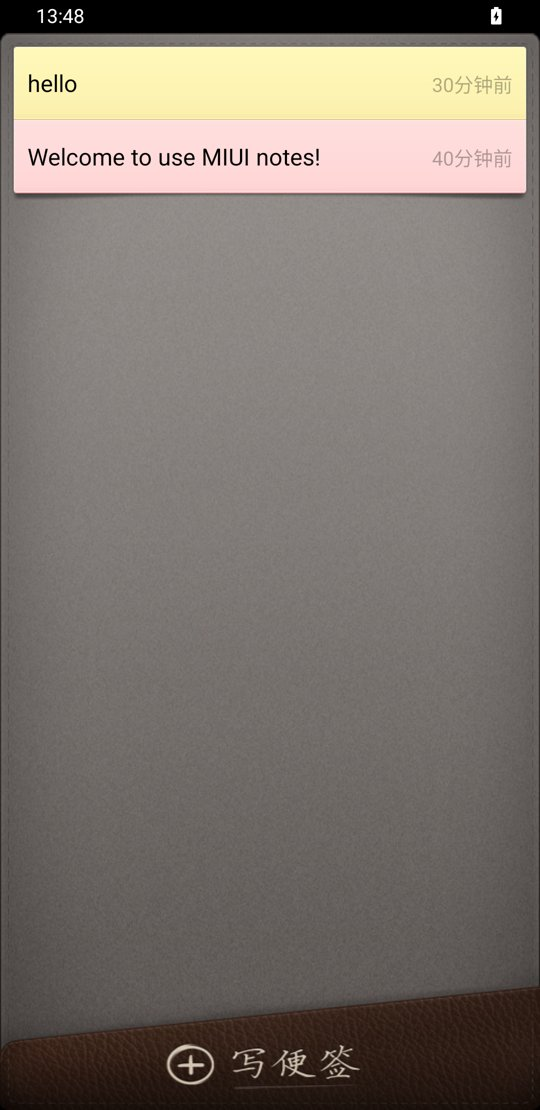
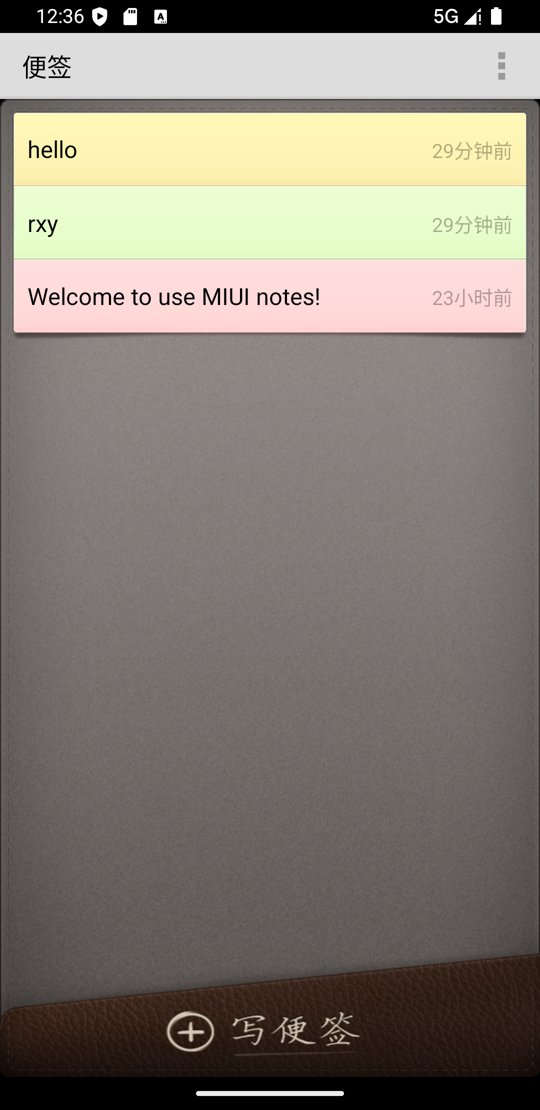
feat: restore delete, batch delete and move actions
Show a visible ActionBar on the notes list, add a Batch select menu entry, refresh checkbox state when entering multi-select mode, and use the current folder instead of a long-pressed item for move availability. Update README and CHANGELOG, and check the restored action item.

diff --git a/app/src/main/java/net/micode/notes/ui/NotesListActivity.java b/app/src/main/java/net/micode/notes/ui/NotesListActivity.java
@@ -16,6 +16,7 @@
 
 package net.micode.notes.ui;
 
+import android.app.ActionBar;
 import android.app.Activity;
 import android.app.AlertDialog;
 import android.app.Dialog;
@@ -148,6 +149,15 @@ public class NotesListActivity extends Activity implements OnClickListener, OnIt
     protected void onCreate(Bundle savedInstanceState) {
         super.onCreate(savedInstanceState);
         setContentView(R.layout.note_list);
+
+        // 显示 ActionBar，让现代设备可以通过右上角溢出菜单访问列表操作。
+        ActionBar actionBar = getActionBar();
+        if (actionBar != null) {
+            actionBar.show();
+            actionBar.setDisplayShowTitleEnabled(true);
+            actionBar.setDisplayShowHomeEnabled(false);
+        }
+
         initResources();
 
         setAppInfoFromRawRes();
@@ -264,7 +274,7 @@ public class NotesListActivity extends Activity implements OnClickListener, OnIt
             getMenuInflater().inflate(R.menu.note_list_options, menu);
             menu.findItem(R.id.delete).setOnMenuItemClickListener(this);
             mMoveMenu = menu.findItem(R.id.move);
-            if (mFocusNoteDataItem.getParentId() == Notes.ID_CALL_RECORD_FOLDER
+            if (mCurrentFolderId == Notes.ID_CALL_RECORD_FOLDER
                     || DataUtils.getUserFolderCount(mContentResolver) == 0) {
                 mMoveMenu.setVisible(false);
             } else {
@@ -535,6 +545,21 @@ public class NotesListActivity extends Activity implements OnClickListener, OnIt
         intent.setAction(Intent.ACTION_INSERT_OR_EDIT);
         intent.putExtra(Notes.INTENT_EXTRA_FOLDER_ID, mCurrentFolderId);
         this.startActivityForResult(intent, REQUEST_CODE_NEW_NODE);
+    }
+
+    /**
+     * 进入批量操作模式，显示删除和移动入口。
+     */
+    private void startBatchEdit() {
+        if (mNotesListAdapter.getCount() == 0) {
+            Toast.makeText(this, R.string.menu_select_none, Toast.LENGTH_SHORT).show();
+            return;
+        }
+        if (!mNotesListAdapter.isInChoiceMode()) {
+            if (mNotesListView.startActionMode(mModeCallBack) != null) {
+                mModeCallBack.updateMenu();
+            }
+        }
     }
 
     /**
@@ -918,6 +943,10 @@ public class NotesListActivity extends Activity implements OnClickListener, OnIt
         switch (item.getItemId()) {
             case R.id.menu_new_folder: {
                 showCreateOrModifyFolderDialog(true);
+                break;
+            }
+            case R.id.menu_batch_edit: {
+                startBatchEdit();
                 break;
             }
             case R.id.menu_export_text: {

diff --git a/app/src/main/java/net/micode/notes/ui/NotesListAdapter.java b/app/src/main/java/net/micode/notes/ui/NotesListAdapter.java
@@ -100,6 +100,7 @@ public class NotesListAdapter extends CursorAdapter {
     public void setChoiceMode(boolean mode) {
         mSelectedIndex.clear();
         mChoiceMode = mode;
+        notifyDataSetChanged();
     }
 
     /**

diff --git a/README.md b/README.md
@@ -54,20 +54,22 @@
 - 新建便签
 - 打开已有便签并编辑正文
 - 返回时自动保存
+- 批量选择、删除、移动便签（移动前需要先新建文件夹）
+- 新建文件夹与文件夹浏览
+- 搜索
+- 设置页
 - 本地 SQLite 数据库存储
 
 ## 暂不可用 / 待恢复功能
 
-以下功能在代码中仍有实现或残留，但当前版本界面入口不可用、未完成适配或未通过验证，暂不计入可用功能：
+以下功能在代码中仍有实现或残留，但当前版本功能入口不可用、未完成适配或未通过验证，暂不计入可用功能：
 
-- 删除、批量删除、移动便签
-- 文件夹与通话记录文件夹管理
+- 通话记录文件夹管理
 - 字体大小、背景颜色、清单模式
-- 搜索与搜索建议
 - 提醒时间设置与闹钟提醒
-- 导出为文本
+- 导出为文本（入口已恢复，但受 Android 10+ 存储限制，当前导出失败）
 - 2x2 / 4x4 桌面小部件
-- 设置页与 Google Tasks 同步
+- Google Tasks 同步
 
 ## 技术栈与结构
 
@@ -163,7 +165,7 @@ adb install -r app/build/outputs/apk/debug/app-debug.apk
 
 ## 当前状态与已知限制
 
-项目已经可以正常启动、新建便签、编辑正文、返回保存和浏览列表。以下功能尚未在当前界面中提供或未完成适配，后续优先恢复：
+项目已经可以正常启动、新建便签、编辑正文、返回保存和浏览列表；列表页菜单已恢复批量删除、移动、搜索和设置入口。以下功能尚未完成适配或未通过验证，后续优先恢复：
 
 - Google Tasks 旧接口与认证方式已发生变化，现有同步客户端可能无法完成登录与同步，后续评估替换或移除。
 - Android 10+ 的分区存储限制会影响导出到 SD 卡等旧文件操作。
@@ -174,14 +176,15 @@ adb install -r app/build/outputs/apk/debug/app-debug.apk
 
 ### 功能入口恢复（优先）
 
-- [ ] 恢复删除、批量删除、移动便签入口
-- [ ] 恢复文件夹与通话记录文件夹管理
+- [x] 恢复删除、批量删除、移动便签入口
+- [x] 恢复新建文件夹与文件夹浏览入口
 - [ ] 恢复字体大小、背景颜色、清单模式
-- [ ] 恢复搜索与搜索建议
+- [x] 恢复搜索入口
 - [ ] 恢复提醒时间设置与闹钟提醒
-- [ ] 恢复文本导出
+- [ ] 完成文本导出适配（入口已恢复，当前导出失败）
 - [ ] 恢复 2x2 / 4x4 桌面小部件
-- [ ] 恢复设置页与同步入口
+- [x] 恢复设置页入口
+- [ ] 恢复 Google Tasks 同步
 
 ### 功能完善
 

diff --git a/CHANGELOG.md b/CHANGELOG.md
@@ -6,6 +6,10 @@
 
 ### 新增
 
+- 恢复便签列表页 ActionBar，重新提供批量操作、新建文件夹、搜索和设置入口。
+- 增加“批量操作”菜单项，可在不依赖长按的情况下进入多选模式。
+- 列表多选模式恢复删除、批量删除和移动便签入口；移动目标需要至少一个用户文件夹。
+- 移动和删除操作完成后刷新列表并退出多选模式。
 - 迁移为 Android Studio 标准 Gradle 工程结构。
 - 增加 `README.md`、`LICENSE`、`CONTRIBUTING.md` 和 Issue/PR 模板。
 - 为核心业务代码补充中文类注释、方法注释、语句块注释和关键语句注释。
